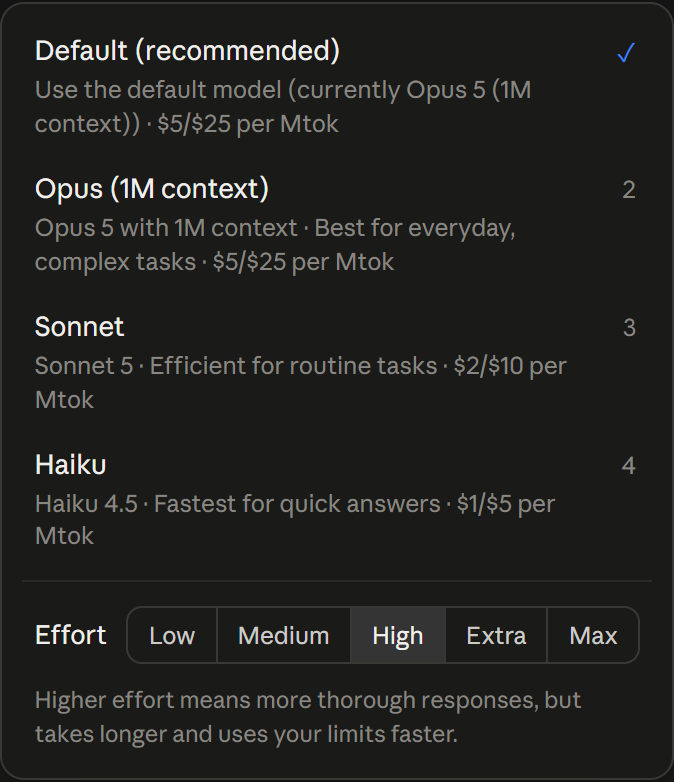
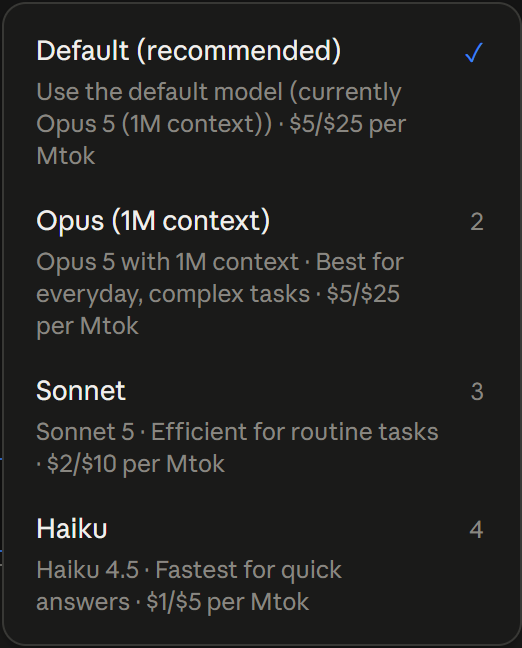
a dropped file attaches in the native window, and effort looks like claude's
Dropping a file on the Mac app did nothing, and disabling Tauri's drag-drop
handler - the previous attempt - was the wrong way round: with it off macOS gets
no drop at all, neither native nor web. Its handler stays on now and the page
listens for `tauri://drag-drop`, which carries the paths.

A path is no use to the server: the file is on the computer that was dropped on,
which is not the one running the session whenever this window is showing another
computer. So the shell reads it (`dropped_file`, async so a 20 MB read cannot
freeze the window) and the page sends the bytes on, exactly like a file picked
from the disk. A folder is declined by name, a file over 25 MB too.

The effort panel is now measured off Claude's own rather than matched by eye,
which had every number wrong: 220 wide with 11px sides, a 196x20 bar filled
behind the knob, a 16x20 knob that stays inside the bar instead of riding over
its edges, six stops 34.4 apart, and one dot alpha that reads light on the fill
and dim off it. Clicking the very end of the bar now picks the end stop.

diff --git a/public/app.js b/public/app.js
@@ -961,23 +961,26 @@
     level.classList.remove('changed'); void level.offsetWidth; level.classList.add('changed');
     $('#ef-note').textContent = EFFORT_HINT[at] || EFFORT_ABOUT;
     const track = $('#ef-track');
-    track.style.setProperty('--ef-pos', (stops.length > 1 ? (i / (stops.length - 1)) * 100 : 50) + '%');
+    // A fraction, not a percentage: the knob and the fill are placed by the same
+    // calc() so the dots line up with where the knob actually stops.
+    const fraction = (n) => (stops.length > 1 ? n / (stops.length - 1) : 0.5);
+    track.style.setProperty('--ef-f', String(fraction(i)));
     track.setAttribute('aria-valuemin', '1');
     track.setAttribute('aria-valuemax', String(stops.length));
     track.setAttribute('aria-valuenow', String(i + 1));
     track.setAttribute('aria-valuetext', EFFORT_NAMES[at] || at);
     const dots = $('#ef-dots'); dots.innerHTML = '';
     stops.forEach((id, n) => {
-      const d = el('button', 'ef-dot' + (n <= i ? ' past' : '') + (id === DEFAULT_EFFORT ? ' default' : ''));
+      const d = el('button', 'ef-dot' + (id === DEFAULT_EFFORT ? ' default' : ''));
       d.type = 'button'; d.tabIndex = -1;
-      d.title = (EFFORT_NAMES[id] || id) + (id === DEFAULT_EFFORT ? ' · default' : '');
-      d.style.left = (stops.length > 1 ? (n / (stops.length - 1)) * 100 : 50) + '%';
+      d.setAttribute('aria-label', EFFORT_NAMES[id] || id); // a native tooltip here floats over the panel
+      d.style.setProperty('--ef-f', String(fraction(n)));
       d.addEventListener('click', (e) => { e.stopPropagation(); pickEffort(id); });
       dots.appendChild(d);
     });
   }
 
-  function pickEffort(id) {
+  function pickEffort(id, push = true) {
     const stops = effortStops(state.model);
     if (!stops.includes(id)) return;
     const wasUltra = !!state.ultracode;
@@ -989,6 +992,7 @@
       localStorage.setItem('cr.effort', state.effort);
     } catch {}
     renderEffortChip(); paintEffortPop();
+    if (!push) return; // mid-drag: show it, tell the session when the finger lifts
     const patch = { effort: state.effort };
     if (state.ultracode || wasUltra) patch.ultracode = state.ultracode;
     pushControls(patch);
@@ -1000,7 +1004,9 @@
     const stops = effortStops(state.model);
     if (stops.length < 2) return null;
     const r = $('#ef-track').getBoundingClientRect();
-    const x = Math.min(Math.max((e.clientX - r.left) / r.width, 0), 1);
+    // The knob's middle never reaches the ends of the bar — it stops 12px in — so the
+    // pointer is measured against the travel, not the width, or the ends never pick.
+    const x = Math.min(Math.max((e.clientX - r.left - 12) / Math.max(r.width - 24, 1), 0), 1);
     return stops[Math.round(x * (stops.length - 1))];
   }
   (function effortSlider() {
@@ -1010,10 +1016,12 @@
     // down with it — a thrown TypeError here leaves a white window.
     if (!track) return;
     let dragging = false;
-    track.addEventListener('pointerdown', (e) => { dragging = true; track.setPointerCapture && track.setPointerCapture(e.pointerId); const id = stopFromPointer(e); if (id) pickEffort(id); });
-    track.addEventListener('pointermove', (e) => { if (!dragging) return; const id = stopFromPointer(e); if (id && id !== stopOf(state.model)) pickEffort(id); });
-    track.addEventListener('pointerup', () => { dragging = false; });
-    track.addEventListener('pointercancel', () => { dragging = false; });
+    const commit = () => { if (!dragging) return; dragging = false; pickEffort(stopOf(state.model)); };
+    track.addEventListener('pointerdown', (e) => { dragging = true; track.setPointerCapture && track.setPointerCapture(e.pointerId); const id = stopFromPointer(e); if (id) pickEffort(id, false); });
+    track.addEventListener('pointermove', (e) => { if (!dragging) return; const id = stopFromPointer(e); if (id && id !== stopOf(state.model)) pickEffort(id, false); });
+    track.addEventListener('pointerup', commit);
+    track.addEventListener('pointercancel', commit);
+    track.addEventListener('lostpointercapture', commit);
     track.addEventListener('keydown', (e) => {
       const stops = effortStops(state.model);
       const i = stops.indexOf(stopOf(state.model));
@@ -2648,6 +2656,34 @@
   for (const evn of ['dragover', 'dragenter']) document.addEventListener(evn, (e) => { if (e.dataTransfer?.types?.includes('Files')) { e.preventDefault(); $('#composer').classList.add('drop'); } });
   document.addEventListener('dragleave', (e) => { if (!e.relatedTarget) $('#composer').classList.remove('drop'); });
   document.addEventListener('drop', (e) => { $('#composer').classList.remove('drop'); if (e.dataTransfer?.files?.length) { e.preventDefault(); addFiles([...e.dataTransfer.files]); } });
+
+  // The native window never sees those events: Tauri takes the drop itself and emits
+  // `tauri://drag-drop` with the paths instead. (Turning its handler off, which was the
+  // first attempt, left macOS with no drop at all.) A path is no use to the server — the
+  // file is on the computer that was dropped on, which is not the one running the session
+  // when this window is showing another computer — so the shell reads it and the bytes
+  // join the same queue as a file picked from the disk.
+  const DROP_TYPES = { png: 'image/png', jpg: 'image/jpeg', jpeg: 'image/jpeg', gif: 'image/gif', webp: 'image/webp', heic: 'image/heic', svg: 'image/svg+xml', pdf: 'application/pdf', txt: 'text/plain', md: 'text/markdown', json: 'application/json', csv: 'text/csv' };
+  async function addPaths(paths) {
+    const invoke = bridge();
+    if (!invoke || !paths?.length) return;
+    const files = [];
+    for (const p of paths.slice(0, 10)) {
+      const name = String(p).split(/[\\/]/).pop();
+      try {
+        const bytes = await invoke('dropped_file', { path: p }); // an ArrayBuffer
+        files.push(new File([bytes], name, { type: DROP_TYPES[name.split('.').pop().toLowerCase()] || 'application/octet-stream' }));
+      } catch (e) { thread.appendChild(el('div', 'note error', name + ' ' + (e.message || e))); }
+    }
+    if (files.length) addFiles(files);
+  }
+  (function nativeDrops() {
+    const ev = window.__TAURI__?.event;
+    if (!ev?.listen) return; // a browser: the HTML5 handlers above are the whole story
+    ev.listen('tauri://drag-enter', () => $('#composer').classList.add('drop')).catch(() => {});
+    ev.listen('tauri://drag-leave', () => $('#composer').classList.remove('drop')).catch(() => {});
+    ev.listen('tauri://drag-drop', (e) => { $('#composer').classList.remove('drop'); addPaths(e.payload?.paths || []); }).catch(() => {});
+  })();
 
   async function submit() {
     const text = input.value.trim(); if (!text && !pending.length) return;

diff --git a/public/theme-desktop.css b/public/theme-desktop.css
@@ -691,32 +691,37 @@ audio.lb-media { width: min(520px, 90vw); height: auto; }
 /* ---------- v40: effort as its own chip, and a slider from Faster to Smarter ---------- */
 .effort-chip { font-variant-numeric: tabular-nums; }
 .effort-chip.ultra { color: #a78bfa; border-color: rgba(167, 139, 250, .45); }
-.effort-pop { min-width: 268px; padding: 14px 16px 12px; }
+/* Every number in this panel is measured off Claude's own at 2x, because matching it by
+   eye got all of them wrong: 220 wide with 11px sides, a 196x20 track, and a 16x20 knob
+   that stays inside the track instead of riding over its edges. */
+.effort-pop { width: 220px; min-width: 0; padding: 11px 11px 13px; border-radius: 12px; }
 /* The popover arrives rather than appears — 120ms is enough to be noticed, not waited for. */
 .effort-pop:not(.hidden) { animation: ef-in 130ms cubic-bezier(.2, .8, .3, 1); transform-origin: bottom right; }
 @keyframes ef-in { from { opacity: 0; transform: translateY(6px) scale(.97); } to { opacity: 1; transform: none; } }
-.ef-head { display: flex; align-items: baseline; gap: 8px; }
-.ef-what { color: var(--ink-3); font-size: 14px; }
-.ef-level { font-size: 15px; font-weight: 500; color: var(--ink); }
+.ef-head { display: flex; align-items: center; gap: 10px; height: 18px; font-size: 13px; }
+.ef-what { color: var(--ink-3); }
+.ef-level { font-weight: 500; color: var(--ink); }
 .effort-pop.ultra .ef-level { color: #a78bfa; }
 .ef-level.changed { animation: ef-name 220ms ease-out; }
 @keyframes ef-name { from { opacity: .3; transform: translateY(-3px); } to { opacity: 1; transform: none; } }
-.ef-help { margin-inline-start: auto; width: 18px; height: 18px; border-radius: 50%; border: 1px solid var(--line-2); background: none; color: var(--ink-3); font-size: 11px; line-height: 1; cursor: pointer; }
+.ef-help { margin-inline-start: auto; display: grid; place-items: center; width: 13px; height: 13px; padding: 0; border-radius: 50%; border: 1px solid var(--line-2); background: none; color: var(--ink-3); font-size: 9px; line-height: 1; cursor: pointer; }
 .ef-help:hover { color: var(--ink); border-color: var(--ink-3); }
-.ef-ends { display: flex; justify-content: space-between; color: var(--ink-3); font-size: 13px; margin: 12px 0 8px; }
-.ef-track { position: relative; height: 26px; border-radius: 13px; background: var(--bg-3); cursor: pointer; touch-action: none; }
+.ef-ends { display: flex; justify-content: space-between; color: var(--ink-3); font-size: 13px; line-height: 18px; margin: 20px 0 8px; }
+.ef-track { position: relative; height: 20px; border-radius: 10px; background: rgba(255, 255, 255, .13); cursor: pointer; touch-action: none; }
 .ef-track:focus-visible { outline: 2px solid var(--accent); outline-offset: 2px; }
+/* Six stops, 34.4px apart, from the knob's own travel: 4px in from each end of the track.
+   The bar behind the knob is filled; the fill stops at the knob's middle, under it. */
+.ef-fill { position: absolute; inset: 0 auto 0 0; width: calc(12px + (100% - 24px) * var(--ef-f, 0)); border-radius: 10px; background: rgba(255, 255, 255, .35); transition: width 170ms cubic-bezier(.2, .8, .3, 1); }
 .ef-dots { position: absolute; inset: 0; }
-.ef-dot { position: absolute; top: 50%; width: 14px; height: 14px; margin: -7px 0 0 -7px; padding: 0; border: 0; border-radius: 50%; background: none; cursor: pointer; }
-.ef-dot::after { content: ""; position: absolute; inset: 5px; border-radius: 50%; background: var(--ink-3); opacity: .5; transition: opacity 140ms ease, background 140ms ease; }
-.ef-dot.past::after { opacity: .85; }
-.ef-dot:hover::after { opacity: 1; }
-.effort-pop.ultra .ef-dot.past::after { background: #a78bfa; opacity: .9; }
+.ef-dot { position: absolute; top: 50%; left: calc(12px + (100% - 24px) * var(--ef-f, 0)); width: 14px; height: 14px; margin: -7px 0 0 -7px; padding: 0; border: 0; border-radius: 50%; background: none; cursor: pointer; }
+/* One alpha for every dot: over the fill it reads light, over the bare bar it reads dim,
+   which is exactly the two greys Claude's panel shows. */
+.ef-dot::after { content: ""; position: absolute; inset: 5.5px; border-radius: 50%; background: rgba(255, 255, 255, .25); transition: background 140ms ease; }
+.ef-dot:hover::after { background: rgba(255, 255, 255, .55); }
 /* The knob travels; it does not jump. Everything else here is still. */
-.ef-knob { position: absolute; top: 3px; left: var(--ef-pos, 50%); width: 20px; height: 20px; margin-inline-start: -10px; border-radius: 50%; background: #fff; box-shadow: 0 1px 3px rgba(0, 0, 0, .35); transition: left 170ms cubic-bezier(.2, .8, .3, 1); pointer-events: none; }
-.ef-note { margin: 10px 0 0; font-size: 11.5px; line-height: 1.45; color: var(--ink-3); max-height: 0; overflow: hidden; opacity: 0; transition: max-height 180ms ease, opacity 180ms ease; }
-.ef-note.open { max-height: 80px; opacity: 1; }
-@media (max-width: 860px) { .effort-pop { min-width: 240px; } }
-/* Ultracode fills the track rather than merely tinting its dots, the way Claude shows it. */
-.effort-pop.ultra .ef-track { background-image: radial-gradient(rgba(167, 139, 250, .55) 1px, transparent 1.2px); background-size: 7px 7px; background-position: 3px 3px; }
-.effort-pop.ultra .ef-dot::after { opacity: 0; }
+.ef-knob { position: absolute; top: 0; left: calc(4px + (100% - 24px) * var(--ef-f, 0)); width: 16px; height: 20px; border-radius: 8px; background: #fff; transition: left 170ms cubic-bezier(.2, .8, .3, 1); pointer-events: none; }
+.ef-note { margin: 0; font-size: 11.5px; line-height: 1.45; color: var(--ink-3); max-height: 0; overflow: hidden; opacity: 0; transition: max-height 180ms ease, opacity 180ms ease, margin 180ms ease; }
+.ef-note.open { margin-top: 10px; max-height: 80px; opacity: 1; }
+/* Ultracode keeps the dark bar and fills it with violet dots that gather towards the knob
+   — brighter to the right, not a flat tint, which is how Claude draws that one stop. */
+.effort-pop.ultra .ef-fill { background-color: transparent; background-image: radial-gradient(#a78bfa .9px, transparent 1.1px); background-size: 4px 4px; -webkit-mask-image: linear-gradient(to right, transparent 4%, #000 88%); mask-image: linear-gradient(to right, transparent 4%, #000 88%); }

diff --git a/public/index.html b/public/index.html
@@ -225,6 +225,7 @@
                   </div>
                   <div class="ef-ends"><span>Faster</span><span>Smarter</span></div>
                   <div id="ef-track" class="ef-track" role="slider" tabindex="0" aria-label="Effort" aria-valuemin="1" aria-valuenow="3" aria-valuemax="5">
+                    <div id="ef-fill" class="ef-fill"></div>
                     <div id="ef-dots" class="ef-dots"></div>
                     <div id="ef-knob" class="ef-knob"></div>
                   </div>

diff --git a/src-tauri/src/main.rs b/src-tauri/src/main.rs
@@ -561,6 +561,33 @@ fn app_version() -> ThisApp {
     }
 }
 
+/// The bytes of a file dropped on this window. Tauri takes the drop itself and gives the
+/// page paths rather than data (see the drag-drop listener in app.js), and the file is on
+/// the machine the window is on - which is not the machine running the server when this
+/// app is showing another computer. So the shell reads it and the page sends it on, the
+/// same way it sends a file picked from the disk.
+///
+/// Async on purpose: a #[tauri::command] that is not async runs on the main thread, and a
+/// 20 MB read there freezes the window mid-drop.
+#[tauri::command]
+async fn dropped_file(path: String) -> Result<tauri::ipc::Response, String> {
+    tauri::async_runtime::spawn_blocking(move || {
+        let p = PathBuf::from(&path);
+        let meta = fs::metadata(&p).map_err(|e| e.to_string())?;
+        if meta.is_dir() {
+            return Err("is a folder".into());
+        }
+        if meta.len() > 25 * 1024 * 1024 {
+            return Err("is larger than 25 MB".into());
+        }
+        fs::read(&p)
+            .map(tauri::ipc::Response::new)
+            .map_err(|e| e.to_string())
+    })
+    .await
+    .map_err(|e| e.to_string())?
+}
+
 /// The app password of this computer, so adding another one can reuse it instead of
 /// asking for a second password nobody wanted to invent.
 #[tauri::command]
@@ -653,6 +680,7 @@ fn main() {
             computers,
             active_computer,
             app_version,
+            dropped_file,
             default_password,
             open_picker
         ])
@@ -688,12 +716,11 @@ fn main() {
                     // where every other window on that machine puts them.
                     .decorations(!cfg!(windows))
                     .shadow(true)
-                    // Tauri handles dropped files itself by default, which means the page
-                    // never gets a `drop` event — and the page is where dropping a file on
-                    // the composer is handled, so on macOS nothing happened at all. Turning
-                    // it off gives the web view its ordinary HTML5 drag and drop back, the
-                    // same path a browser takes.
-                    .disable_drag_drop_handler()
+                    // Tauri's own drag-drop handler stays on: turning it off was meant to
+                    // give the page ordinary HTML5 drops, and on macOS that produced no
+                    // drop at all — neither the native one nor the web one. What it does
+                    // emit is `tauri://drag-drop` carrying the paths, which the page picks
+                    // up (see app.js). Paths beat bytes here: the file is on this machine.
                     .visible(false)
                     .build()?;
             if let Ok(u) = win.url() {

diff --git a/README.md b/README.md
@@ -91,11 +91,16 @@ on a session, this one follows along and shows what it is doing.
   result, a status line, queued messages that reach Claude at the next tool
   boundary rather than at the end of the turn.
 - **The model menu is the CLI's own**: the models Claude Code offers this
-  account, with its descriptions and prices, and the effort levels each model
-  actually takes — Low, Medium, **High**, Extra, Max — rather than a list kept
-  here that drifts. Haiku has none, so it shows none.
+  account, with its descriptions and prices, rather than a list kept here that
+  drifts.
+- **Effort is a chip of its own** beside the model, and it opens the same slider
+  Claude has — Faster to Smarter, Low, Medium, **High**, Extra, Max, and
+  Ultracode where the model takes it. Haiku takes none, so the chip stays away.
 
-<div align="center"><img src="docs/images/model-menu.png" alt="The model menu: the CLI's own models, with Effort from Low to Max" width="420"></div>
+<div align="center">
+<img src="docs/images/model-menu.png" alt="The model menu: the CLI's own models, with their descriptions and prices" width="420">
+<img src="docs/images/effort.png" alt="Effort: a slider from Faster to Smarter, set to Ultracode" width="300">
+</div>
 
 - **Permission prompts from the phone** — Allow, Allow always, Deny. A question
   from Claude arrives as a question: its options, a box for an answer that is
@@ -115,6 +120,9 @@ on a session, this one follows along and shows what it is doing.
 - **Native app on all three**: the webview the machine already has, a few
   megabytes, tray icon, start with the machine, system notifications. Windows
   draws its own title bar; macOS and Linux keep theirs.
+- **Drop a file on the window** — a screenshot, a PDF, a log — and it attaches
+  to the message you are writing. The app reads it from the computer you dropped
+  it on, so it works when that computer is not the one running the session.
 - **It updates itself, both ways**: every merge to `main` is built and published
   by GitHub Actions, and the app notices within the hour. The banner offers the
   file for the device you are holding **and** an *Update DESKTOP-…* button that

diff --git a/CLAUDE.md b/CLAUDE.md
@@ -65,9 +65,12 @@ await page.goto('http://127.0.0.1:7779/');
 - **`perTaskStopAffordance: true`** is what keeps a Stop from killing
   background agents. Absence fails closed.
 - **`background_tasks_changed` replaces the set**; do not merge it edge by edge.
-- **Tauri eats the page's drag and drop.** Its own handler is on by default, so
-  `drop` never reaches the web page and a dropped file does nothing — most
-  visibly on macOS. Build the window with `disable_drag_drop_handler()`.
+- **Tauri takes the drop instead of the page** — and `disable_drag_drop_handler()`
+  does not hand it back: on macOS that leaves no drop at all, native or web. Keep
+  its handler on and listen for `tauri://drag-drop`, which carries the *paths*
+  (`core:event:allow-listen` in the capability, or the listener is refused). The
+  file then has to be read by the shell, not the server: the window and the
+  server are on different computers whenever the app is showing another one.
 - **macOS blocks plain http in a web view.** A window pointed at
   `http://<ip>:7777` shows white and reports nothing; the bundle needs
   `NSAllowsArbitraryLoadsInWebContent` (`src-tauri/Info.plist`, referenced by

diff --git a/docs/features.md b/docs/features.md
@@ -53,6 +53,13 @@ panel. A path that is only mentioned does not embed a player in the middle of th
 message — media appears inline where it was actually handed over: a file sent to you,
 or a picture Claude read.
 
+Going the other way, a file reaches Claude by the **+** button, by pasting it, or by
+dropping it on the window — up to ten at a time, 25 MB each. In the native app the
+drop is the window's own, not the page's: it arrives as a path and the app reads it
+from the computer you dropped it on. That is what makes dropping a screenshot on the
+Mac work while the session it joins is running on the PC. A folder is declined by
+name rather than ignored.
+
 ## Deleting, and undoing it
 
 Delete moves a session’s transcript to a trash folder inside the app’s data
